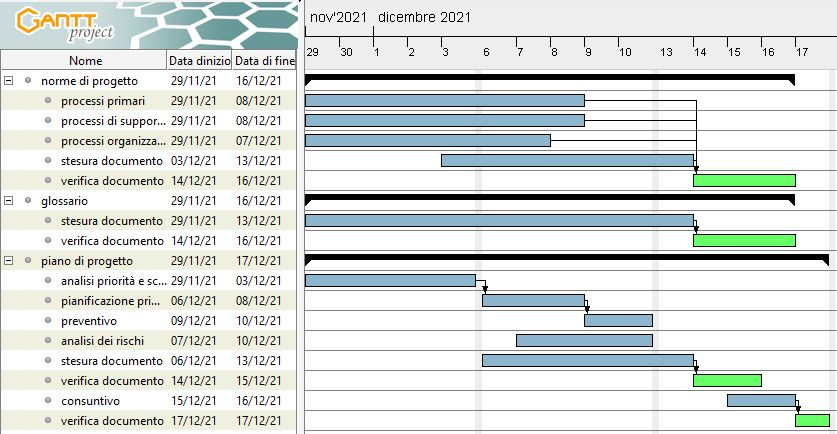
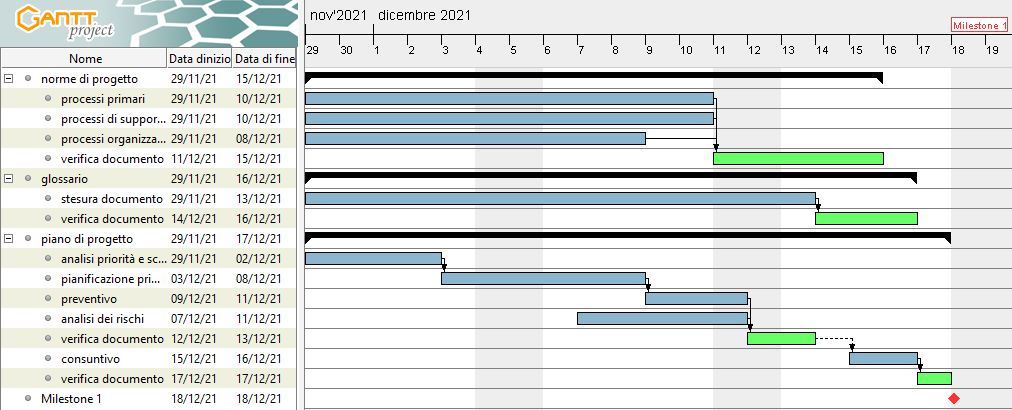
Iniziata pianificazione

diff --git a/src/documenti/PdP/contenuti/pianificazione.tex b/src/documenti/PdP/contenuti/pianificazione.tex
@@ -1,3 +1,88 @@
 \chapter{Pianificazione}
 
-%sezioni ancora in fase di studio
+Presa in considerazione la nostra inesperienza vogliamo partire fissando delle milestones
+brevi in modo da riuscire a preventivare e consuntivare più facilmente. Questo ci permetterà
+anche di accorgerci il prima possibile se stiamo commettendo errori di qualsiasi genere.
+
+La prima revisione, la RTB (Requirements and Technology Baseline), vogliamo raggiungerla fissando tre milestones:
+\begin{enumerate}
+    \item \textbf{Primo periodo}
+    \item \textbf{Secondo periodo}
+    \item \textbf{Terzo periodo}
+\end{enumerate}
+
+\noindent Successivamente per le altre due revisioni risulta difficile individuare le migliori
+milestones per cui ci limiteremo a pianificare le due revisioni mancanti ponendo come priorità
+massima la divisione in periodi nel momento in cui viene superata la revisione precedente.
+
+Scadenze:
+\begin{itemize}
+    \item RTB (Requirements and Technology Baseline) : 25/02/2022
+    \item PB (Product Baseline) : 05/04/2022
+    \item CA (Customer Acceptance) : 06/05/2022
+\end{itemize}
+
+\newpage
+
+\section{Verso la RTB}
+
+\textit{Periodo: 29/11/2021 - 24/02/2021}
+
+\subsection{Primo periodo}
+
+\textit{Periodo: 29/11/2021 - 18/12/2021}
+
+In questa prima fase risulta di priorità massima discutere tutte le regole già introdotte
+e applicate nello svolgimento del progetto che però non sono ancora state documentate.
+Questo per avere un documento scritto a disposizione di tutti i membri che consenta di
+non avere dubbi su come svolgere qualsiasi attività e su come utilizzare le risorse.
+\par In questa fase è importante anche individuare tutti i vari rischi che possono portare
+problemi allo svolgimento del progetto per non essere colti di sorpresa.
+\par Di fondamentale importanza è anche iniziare a pianificare le prime attività e quindi
+le prime milestones in modo da organizzare le risorse e di fornire un preventivo. 
+
+\begin{figure}[!ht]
+    \includegraphics[width=1.0\textwidth]{Gantt1}
+    \caption{Diagramma di Gantt della prima milestone} 
+\end{figure}
+
+\subsection{Secondo periodo}
+
+\textit{Periodo: 20/12/2021 - 14/01/2022}
+
+In questa fase diventa importante analizzare nel dettaglio il capitolato per riuscire a
+cogliere tutti i requisiti necessari. Inoltre, per non avere dubbi e per non intraprendere
+scelte sbagliate, sarà opportuno organizzare uno o più incontri con il proponente in modo da
+condividere idee e dubbi sorti durante l'analisi che sarà sicuramente più approfondita di quella
+effettuata durante la scelta del capitolato.
+\par Da tutto ciò nascerà l'Analisi dei requisiti, documento importantissimo per il progetto poichè
+conterrà tutti i casi d'uso, i requisiti obbligatori, quelli desiderabili e quelli opzionali.
+\par In questa fase è opportuno stilare anche il Piano di Qualifica, necessario per individuare
+i metodi per garantire la qualità di processo e di prodotto.
+
+\begin{figure}[!ht]
+    \includegraphics[width=1.0\textwidth]{Gantt2}
+    \caption{Diagramma di Gantt della prima milestone} 
+\end{figure}
+
+\subsection{Terzo periodo}
+
+\textit{Periodo: 15/01/2022 - 24/02/2022}
+
+Con l'Analisi dei requisiti scritta, diventa fondamentale studiare le tecnologie e gli strumenti necessari
+per realizzare il prodotto. Questo permetterà di realizzare il PoC (Proof of Concept), una versione semplificata 
+del prodotto finale che permetta di intuire se la direzione è quella giusta e che mostri al proponente se lo 
+sviluppo è corretto.
+
+\begin{figure}[!ht]
+    %\includegraphics[width=1.0\textwidth]{Gantt3}
+    \caption{Diagramma di Gantt della prima milestone} 
+\end{figure}
+
+\section{Verso la PB}
+
+\textit{Periodo: 28/02/2022 - 31/03/2022}
+
+\section{Verso la CA}
+
+\textit{Periodo: 04/04/2022 - 05/05/2022}

diff --git a/src/documenti/PdP/contenuti/modifiche.tex b/src/documenti/PdP/contenuti/modifiche.tex
@@ -5,7 +5,8 @@
 \begin{center}
   \begin{tabular}{|p{2cm}|p{2cm}|p{3cm}|p{5cm}|}
     \hline
-    \textbf{Versione} & \textbf{Data} & \textbf{Autore} & \textbf{Modifica}                    \\ \hline
-    v0.0.0            & 07/12/2021    & Riccardo Contin  & Creata prima struttura del documento \\ \hline
+    \textbf{Versione} & \textbf{Data} & \textbf{Autore} & \textbf{Modifica}     \\ \hline
+    v0.0.1            & 08/12/2021    & Riccardo Contin & Iniziata Pianificazione \\ \hline
+    v0.0.0            & 07/12/2021    & Riccardo Contin & Creata prima struttura del documento \\ \hline
   \end{tabular}
 \end{center}
